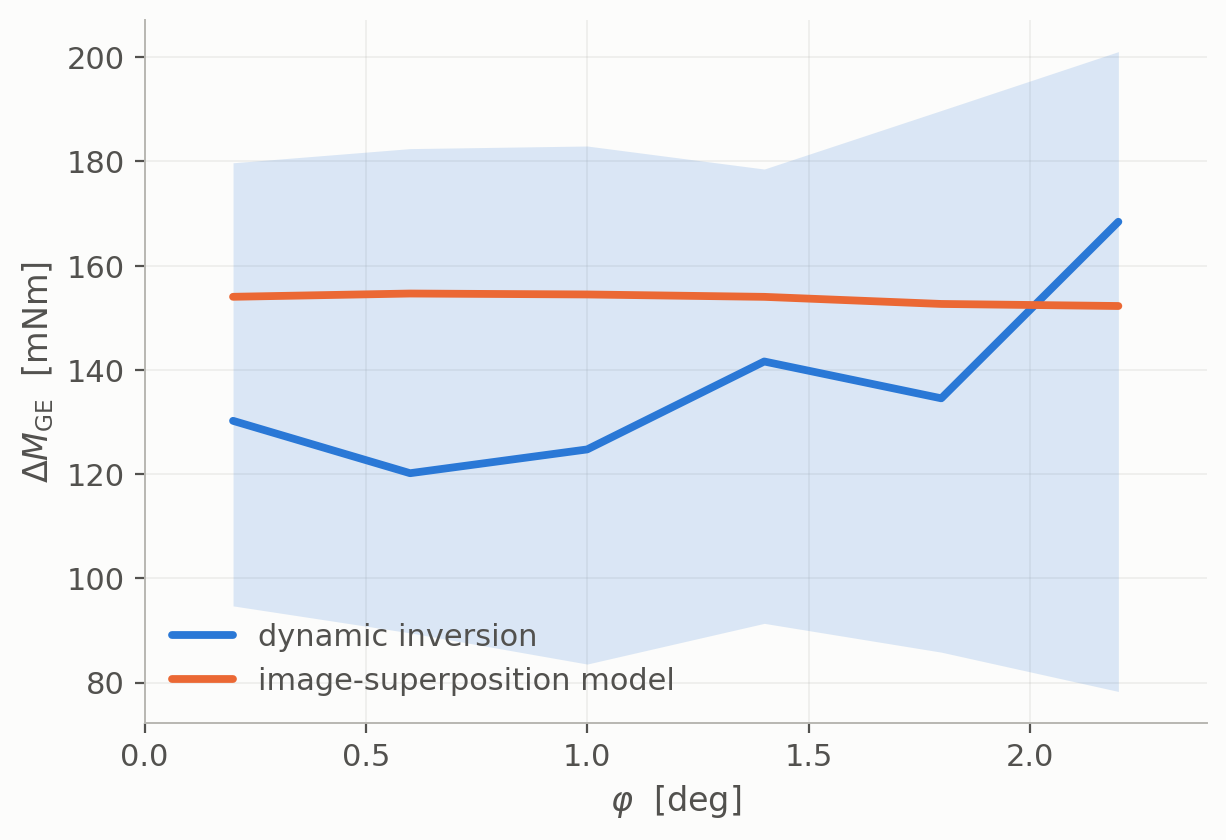
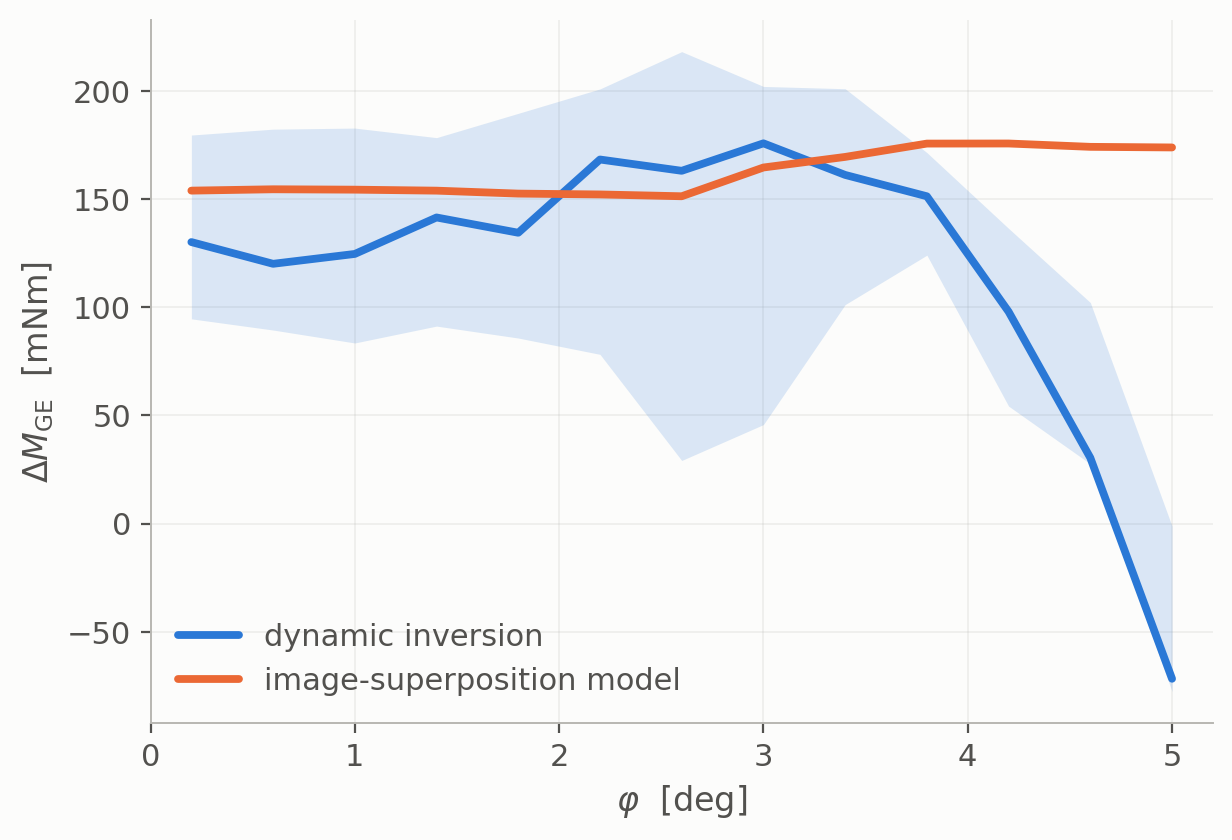
Carry fig_ge_dynamics_sym to 5 deg and record what each bin is made of
Drawn wherever four of the ten case/axis groups still form an average,
which reaches 5.0 deg, with the per-group thresholds relaxed to 5
samples and 3 runs -- that also extends the fully balanced part from
1.8 to 2.6 deg.

The composition is printed per bin rather than annotated on the figure,
and it is not uniform: all ten groups to 2.6 deg, nine at 3.0, then
eight, seven, six, and only the five Mx groups at 4.6 and 5.0.  The
residual is quoted both over the balanced range -- median -18, RMS 22
mN.m against a model of 152-155 -- and over everything drawn, where it
is -24 and 84, because the curve falls to -72 mN.m in the last bin.
That fall coincides with the last My group leaving, so it is a change
in what is being averaged as much as anything physical.

diff --git a/analysis/ge_dynamics_symmetric_figure.py b/analysis/ge_dynamics_symmetric_figure.py
@@ -43,7 +43,8 @@ DYN, MOD = '#2a78d6', '#eb6834'
 INK, INK2, MUTED, SURF = '#0b0b0b', '#52514e', '#b8b7b2', '#fcfcfb'
 EDGES = np.arange(0.0, 5.21, 0.4)
 CTR = 0.5 * (EDGES[:-1] + EDGES[1:])
-GRP_S, GRP_R = 8, 4          # samples and runs per group, per direction
+GRP_S, GRP_R = 5, 3          # samples and runs per group, per direction
+MIN_G = 4                    # groups needed before a bin is drawn at all
 
 d = np.load(SRC)
 rid, phi = d['rid'], d['phi']
@@ -70,14 +71,21 @@ mod_g = np.array([0.5 * (per_bin((gs == g) & (tip == 'pos'), mod)
                          + per_bin((gs == g) & (tip == 'neg'), mod))
                   for g in GROUPS])
 
-# every one of the ten groups must reach the bin, or the curve changes
-# what it is a statistic of partway along
-full = (~np.isnan(sym_g)).sum(axis=0) == len(GROUPS)
-x = CTR[full]
-med = np.nanmedian(sym_g[:, full], axis=0)
-q1 = np.nanpercentile(sym_g[:, full], 25, axis=0)
-q3 = np.nanpercentile(sym_g[:, full], 75, axis=0)
-mm = np.nanmedian(mod_g[:, full], axis=0)
+# A group only forms an average where both its directions reach the
+# bin, and neg does not tip as far, so the contributing set shrinks with
+# tilt and shrinks unevenly -- by 4.6 deg only the five Mx groups are
+# left.  The curve is drawn wherever MIN_G groups remain and the count
+# is printed per bin, so what each part is a statistic of stays on the
+# record; the range over which all ten contribute is reported
+# separately as the balanced one.
+ngrp = (~np.isnan(sym_g)).sum(axis=0)
+ok = ngrp >= MIN_G
+full = ngrp == len(GROUPS)
+x = CTR[ok]
+med = np.nanmedian(sym_g[:, ok], axis=0)
+q1 = np.nanpercentile(sym_g[:, ok], 25, axis=0)
+q3 = np.nanpercentile(sym_g[:, ok], 75, axis=0)
+mm = np.nanmedian(mod_g[:, ok], axis=0)
 
 plt.rcParams.update({
     'font.size': 12, 'axes.labelsize': 12,
@@ -96,7 +104,7 @@ ax.plot(x, mm, color=MOD, lw=2.8, zorder=6,
         label='image-superposition model', solid_capstyle='round')
 ax.set_xlabel(r'$\varphi$  [deg]', color=INK2)
 ax.set_ylabel(r'$\Delta M_{\mathrm{GE}}$  [mNm]', color=INK2)
-ax.set_xlim(0, EDGES[np.flatnonzero(full)[-1] + 1])
+ax.set_xlim(0, EDGES[np.flatnonzero(ok)[-1] + 1])
 ax.grid(alpha=0.22, lw=0.6, color=MUTED)
 ax.set_axisbelow(True)
 for sp in ('top', 'right'):
@@ -110,14 +118,22 @@ print(f"-> {OUT / 'fig_ge_dynamics_sym.pdf'}")
 
 res = med - mm
 w = q3 - q1
-print(f"\n  drawn over {x[0]:.1f}-{x[-1]:.1f} deg, all {len(GROUPS)} groups\n")
+print(f"\n  drawn over {x[0]:.1f}-{x[-1]:.1f} deg;  all {len(GROUPS)} groups"
+      f" to {CTR[full][-1]:.1f} deg\n")
 print(f"  {'phi':>5}{'inversion':>11}{'model':>8}{'diff':>8}"
-      f"{'q25':>8}{'q75':>8}{'band':>7}{'mean':>8}")
-for i in range(len(x)):
+      f"{'q25':>8}{'q75':>8}{'band':>7}{'groups':>8}   composition")
+for i, k in enumerate(np.flatnonzero(ok)):
+    got = [GROUPS[j].replace('case_0', 'c') for j in range(len(GROUPS))
+           if not np.isnan(sym_g[j, k])]
     print(f"  {x[i]:5.1f}{med[i]:11.1f}{mm[i]:8.1f}{res[i]:+8.1f}"
-          f"{q1[i]:8.1f}{q3[i]:8.1f}{w[i]:7.0f}"
-          f"{np.nanmean(sym_g[:, full][:, i]):8.1f}")
-print(f"\n  residual   median {np.median(res):+.1f}   RMS "
-      f"{np.sqrt(np.mean(res ** 2)):.1f}   max |{np.max(np.abs(res)):.0f}|")
+          f"{q1[i]:8.1f}{q3[i]:8.1f}{w[i]:7.0f}{len(got):8d}   "
+          f"{'all ten' if len(got) == len(GROUPS) else ','.join(got)}")
+rb = (med - mm)[full[ok]]
+print(f"\n  residual, all {len(GROUPS)} groups (0.2-{CTR[full][-1]:.1f} deg):"
+      f"  median {np.median(rb):+.1f}  RMS {np.sqrt(np.mean(rb ** 2)):.1f}"
+      f"  max |{np.max(np.abs(rb)):.0f}|")
+print(f"  residual, everything drawn:            "
+      f"  median {np.median(res):+.1f}  RMS {np.sqrt(np.mean(res ** 2)):.1f}"
+      f"  max |{np.max(np.abs(res)):.0f}|")
 print(f"  band width max {w.max():.0f} mNm at phi = {x[np.argmax(w)]:.1f} deg,"
       f"  min {w.min():.0f},  median {np.median(w):.0f}")
